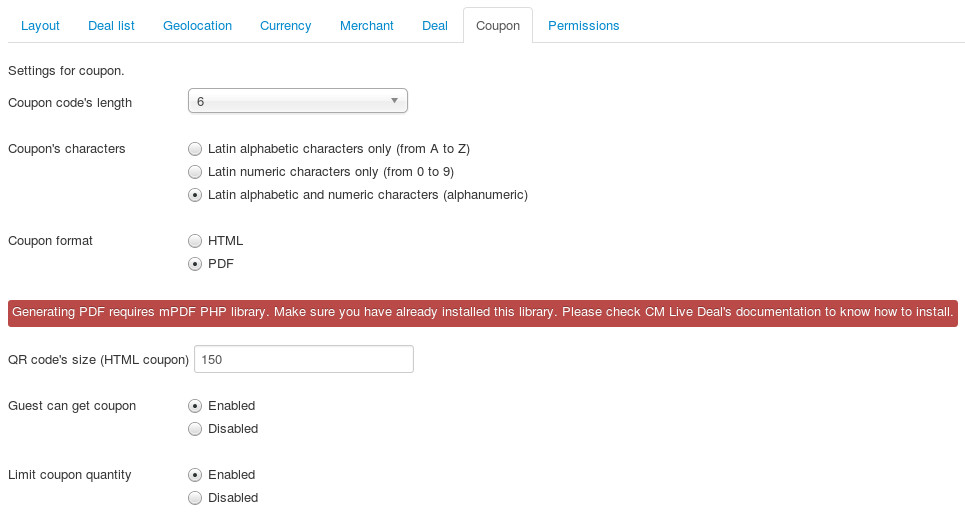
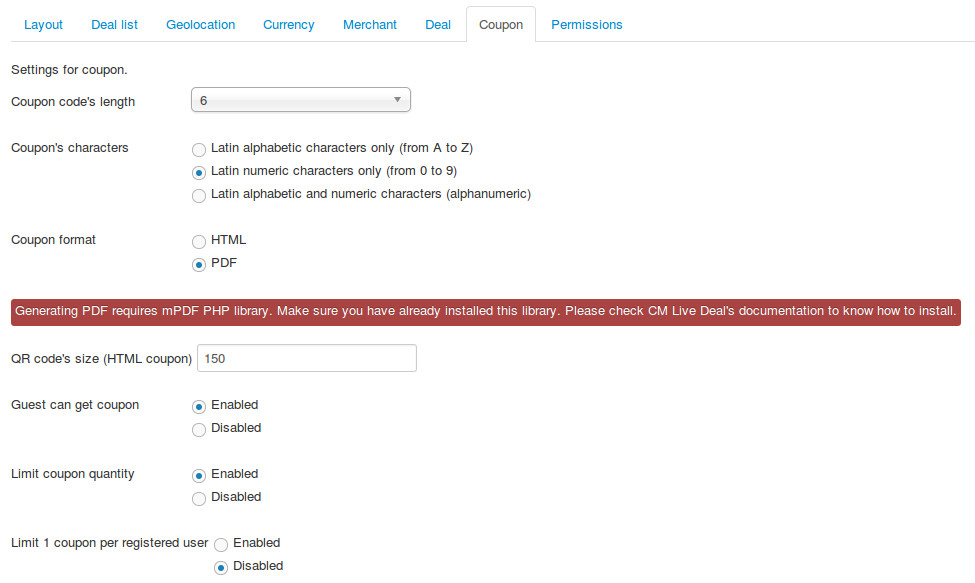
1.8.0-beta

diff --git a/conf.py b/conf.py
@@ -51,10 +51,10 @@ copyright = u'2014-2015, CMExtension'
 # built documents.
 #
 # The short X.Y version.
-version = '1.7.0'
+version = '1.8.0'
 # The full version, including alpha/beta/rc tags.
-release = '1.7.0-beta'
-
+release = '1.8.0-beta'
+7
 # The language for content autogenerated by Sphinx. Refer to documentation
 # for a list of supported languages.
 #language = None
@@ -98,7 +98,7 @@ pygments_style = 'sphinx'
 
 # The theme to use for HTML and HTML Help pages.  See the documentation for
 # a list of builtin themes.
-html_theme = 'default'
+html_theme = 'classic'
 
 # Theme options are theme-specific and customize the look and feel of a theme
 # further.  For a list of options available for each theme, see the

diff --git a/pages/membership.rst b/pages/membership.rst
@@ -18,7 +18,7 @@ When the limitations are reached, if merchant wants to create more deals or exte
 Configuration
 -------------
 
-You can enable this integration in :ref:`Configuration <ref-merchant-registration-menu-item>`. At the present time only `Membership Pro <http://extensions.joomla.org/extensions/e-commerce/membership-a-subscriptions/20725>`_ component is supported. More membership components will be integrated in future.
+You can enable this integration in :ref:`Configuration <ref-configuration-merchant>`. At the present time CMLiveDeal has integrations with `Membership Pro <http://extensions.joomla.org/extensions/e-commerce/membership-a-subscriptions/20725>`_ and `Akeeba Subscription <https://www.akeebabackup.com/>`_ components. More membership components will be integrated in future.
 
 After enabling the integration by selecting a membership. Membership Plans item is displayed in the component's menu.
 
@@ -85,7 +85,7 @@ When merchant subscribes for his/her membership, the membership component asks m
 
 If merchant renews his/her membership, the data in CMLiveDeal profile will not be modified unless it is empty, for example if merchant deletes the phone number in CMLiveDeal profile, he/she provides the phone number when renews the membership, then this new phone number will be automatically updated in CMLiveDeal profile and it will be displayed in the deals of this merchant.
 
-Below is the instruction for setting this up in membership component.
+Below is the instruction for setting this up in membership components.
 
 Membership Pro
 ^^^^^^^^^^^^^^
@@ -97,3 +97,14 @@ In Custom Fields section, you edit/create your fields. The first column "Name" c
 Go to "Merchant" tab in CMLiveDeal's configuration, set "Use subscriber's profile as merchant's profile" to "Enabled", enter the field name you have in the column "Name" in Membership Pro's Custom Fields section into the fields at the bottom of the page.
 
 .. image:: ../images/com_cmlivedeal_membership_profile.jpg
+
+Akeeba Subscription
+^^^^^^^^^^^^^^^^^^^
+
+In Akeeba Subscription's Custom Fields, you create the custom fields for website, Facebook, Twitter, Pinterest, Google+, phone and merchant's about info. CMLiveDeal automatically takes Akeeba Subscription's business name and address so you don't need to create fields for merchant's name and address.
+
+.. image:: ../images/com_akeebasubs_field_list.jpg
+
+Go to "Merchant" tab in CMLiveDeal's configuration, set "Use subscriber's profile as merchant's profile" to "Enabled". You enter the aliases (slugs) of the custom fields you create in Akeeba Subscription's Custom Fields, you don't need to enter values for "Field for business name" and "Field for address" fields.
+
+.. image:: ../images/com_cmlivedeal_akeebasubs_profile.jpg

diff --git a/pages/configuration.rst b/pages/configuration.rst
@@ -123,6 +123,7 @@ Currency
 * **Decimal point**: The character which is used as decimal point.
 * **Thousands separator**: The character which is used as thousands separator.
 
+.. _ref-configuration-merchant:
 
 Merchant
 ^^^^^^^^
@@ -184,6 +185,7 @@ Coupon
 * **QR code's size**: The size of coupon's QR code in pixel.
 * **Guest can get coupon**: Allow guests can capture coupons without registering accounts.
 * **Limit coupon quantity**: Enable this option to give administrators and merchants ability to set and change coupon quantity for every deal. If this option is disabled, coupon quantity is unlimited.
+* **Limit 1 coupon per registered user**: Enable this option if you only allow a registered user to get 1 coupon for 1 deal. Disable this option if you want to allow registered users to get unlimited coupon for every deal.
 
 Permissions
 ^^^^^^^^^^^
